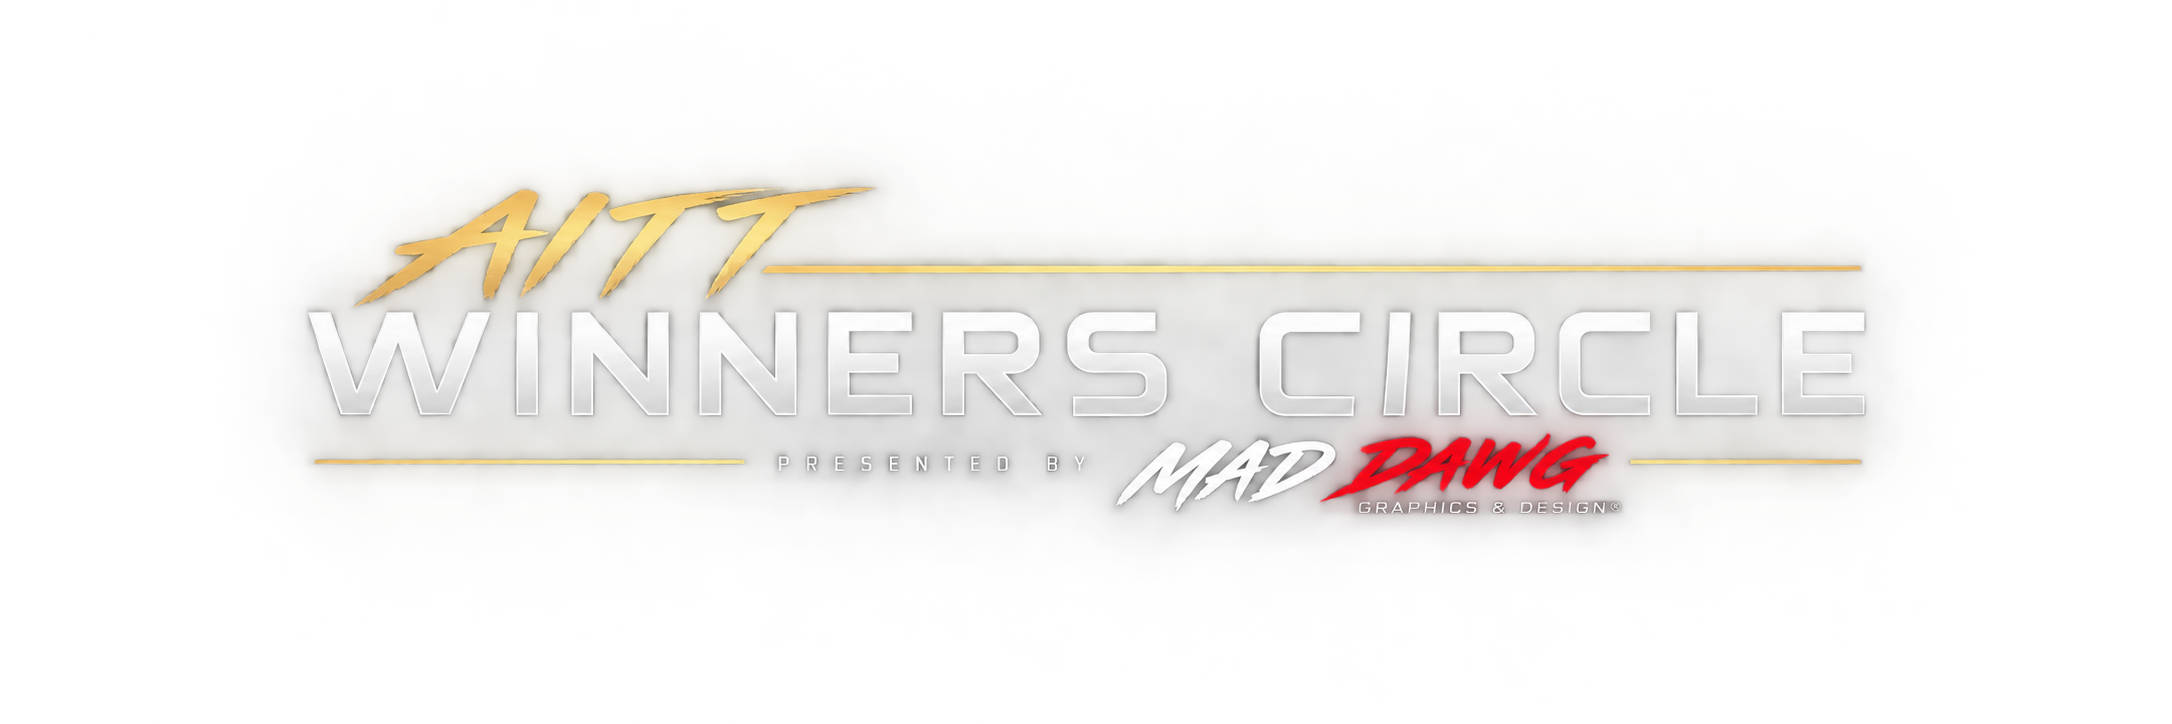
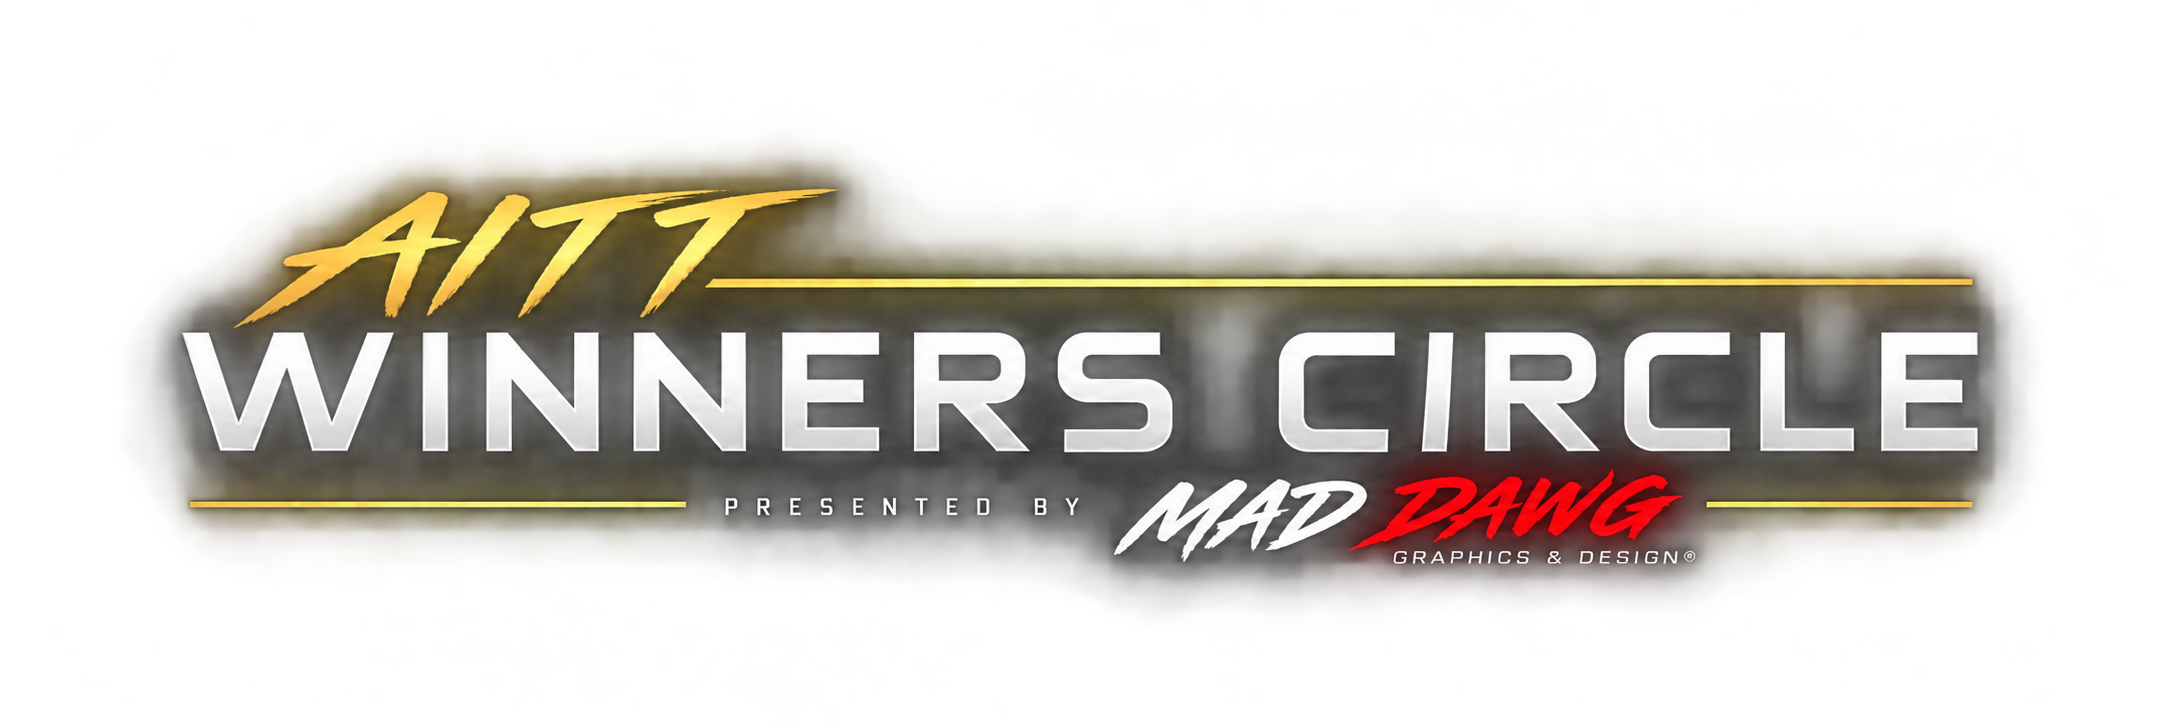
Fix mobile Winners Circle transparency

diff --git a/components/MobileWinnerCircle.tsx b/components/MobileWinnerCircle.tsx
@@ -51,7 +51,7 @@ function MobileWinnersHeader({
   tournament?: LatestTournamentResults["tournament"];
 }) {
   return (
-    <div className="border-b border-white/10 bg-black px-3 py-2 text-center">
+    <div className="border-b border-white/10 bg-[#111111] px-3 py-2 text-center">
       <div className="relative mx-auto aspect-[5/2] w-full max-w-[520px] max-h-[104px]">
         <Image
           src="/images/winners-circle-banner2.png"

diff --git a/components/WinnersCircle.module.css b/components/WinnersCircle.module.css
@@ -181,6 +181,9 @@
   .headerMeta {
     grid-column: 1;
     grid-row: 1;
+    z-index: 1;
+    display: flex;
+    justify-self: stretch;
     align-items: flex-start;
     text-align: left;
   }
